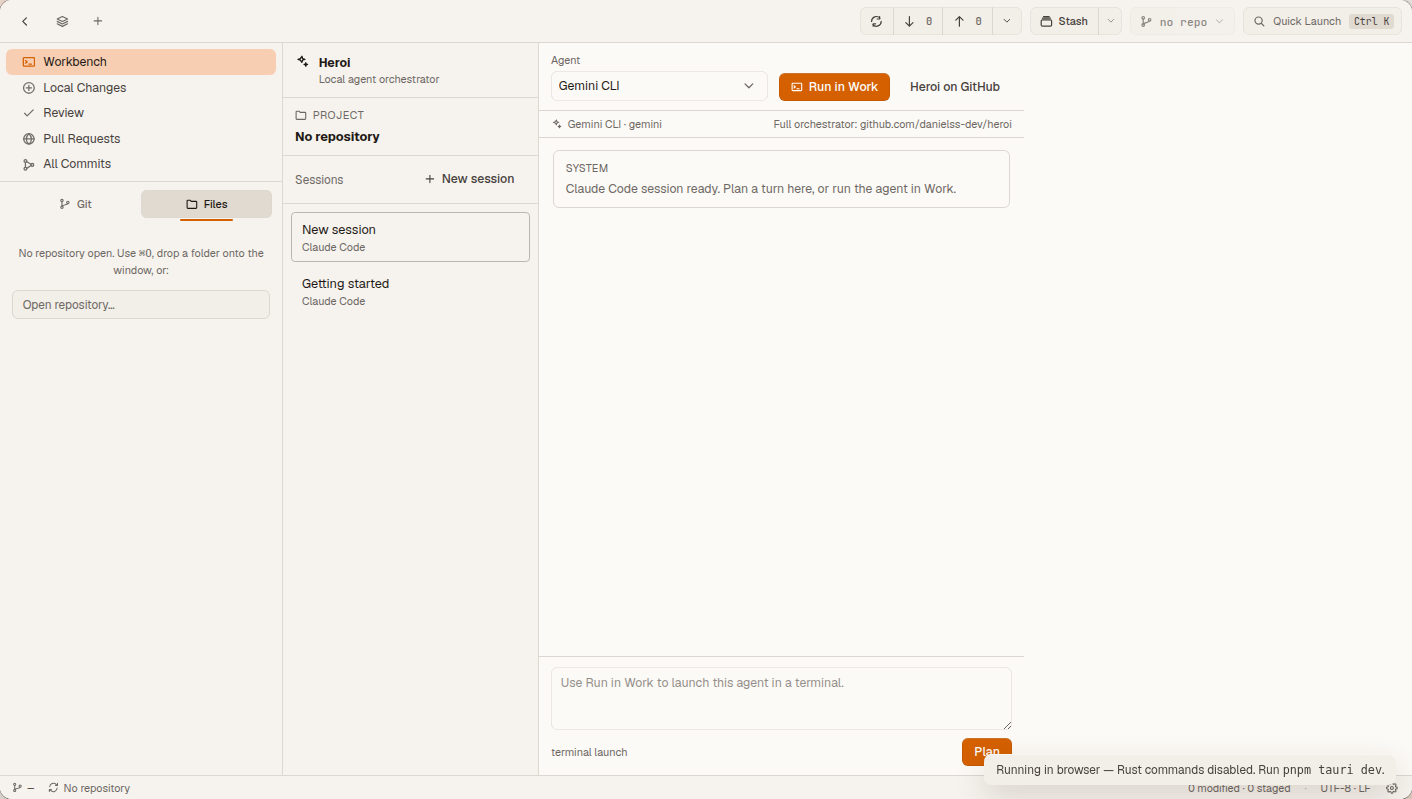
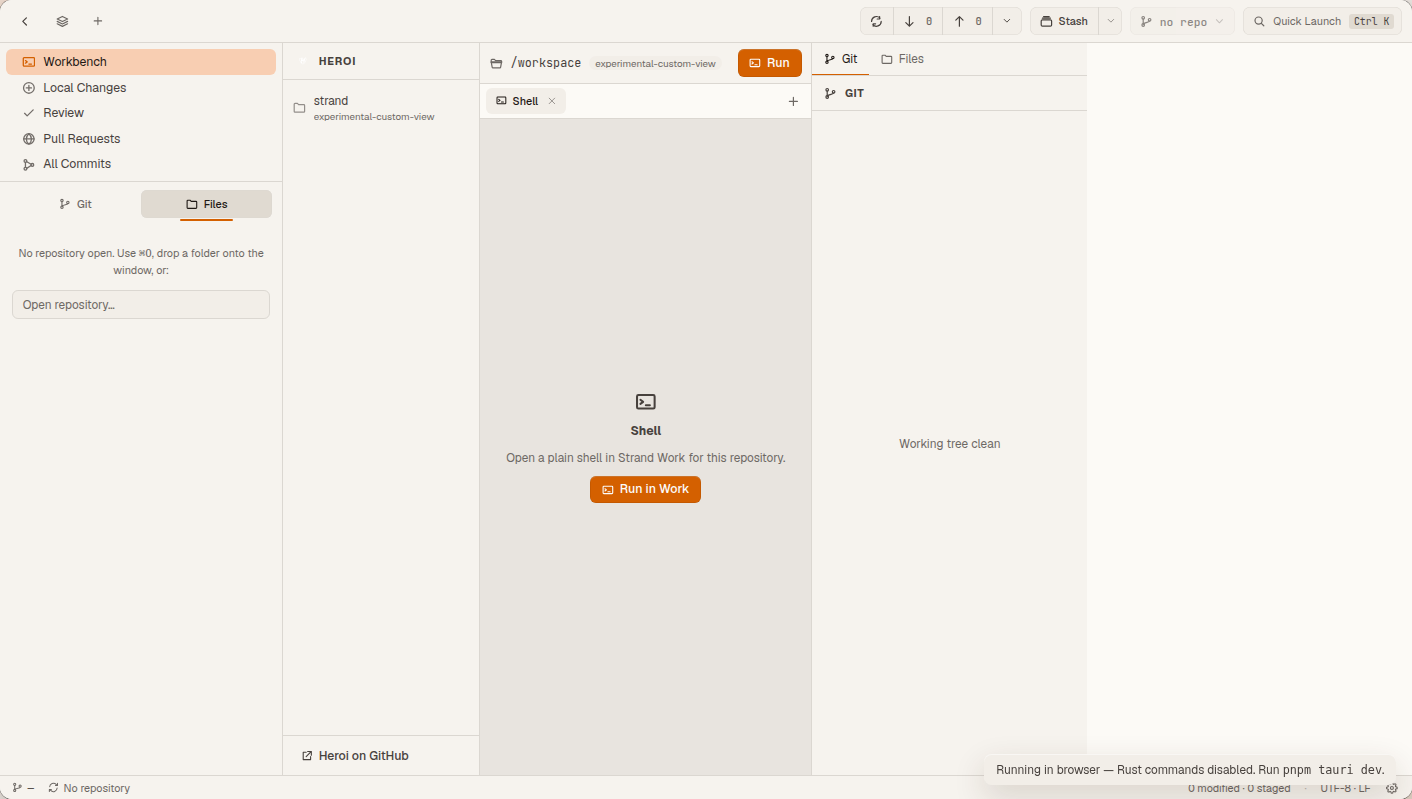
fix(plugins): finish Heroi path fallback and refresh PR screenshots
Use the active Strand tab when meta is empty so the mirrored Heroi
three-pane UI populates in browser QA, and refresh PR 102 assets.

diff --git a/ui/src/plugins/builtins/heroi/HeroiView.tsx b/ui/src/plugins/builtins/heroi/HeroiView.tsx
@@ -84,13 +84,29 @@ export function HeroiView({
   const activeAgentTab = agentTabs.find((tab) => tab.id === activeTabId) ?? agentTabs[0];
   const command = activeAgentTab ? launchCommand(activeAgentTab.agent) : '';
 
-  const project = useMemo(() => ({
-    path: meta?.path ?? '',
-    name: meta?.name ?? null,
-    branch: meta?.branch ?? null,
-    dirty: unstagedDiffs.length + stagedDiffs.length > 0,
-    linked: meta?.is_linked_worktree ?? false,
-  }), [meta?.branch, meta?.is_linked_worktree, meta?.name, meta?.path, stagedDiffs.length, unstagedDiffs.length]);
+  const activeTab = tabs.find((tab) => tab.path === (activeTabPath ?? meta?.path)) ?? tabs[0] ?? null;
+  const project = useMemo(() => {
+    const path = meta?.path ?? activeTab?.path ?? activeTabPath ?? '';
+    const name = meta?.name ?? activeTab?.meta?.name ?? (path ? pathLeaf(path) : null);
+    const branch = meta?.branch ?? activeTab?.meta?.branch ?? null;
+    const linked = meta?.is_linked_worktree ?? activeTab?.meta?.is_linked_worktree ?? false;
+    return {
+      path,
+      name,
+      branch,
+      dirty: unstagedDiffs.length + stagedDiffs.length > 0,
+      linked,
+    };
+  }, [
+    activeTab,
+    activeTabPath,
+    meta?.branch,
+    meta?.is_linked_worktree,
+    meta?.name,
+    meta?.path,
+    stagedDiffs.length,
+    unstagedDiffs.length,
+  ]);
 
   useEffect(() => {
     let current = true;
@@ -162,18 +178,18 @@ export function HeroiView({
   }, []);
 
   const runActiveAgent = useCallback(() => {
-    if (!meta?.path || !activeAgentTab) {
+    if (!project.path || !activeAgentTab) {
       setError(t('plugins.heroi.noRepository'));
       return;
     }
     void broker.readRepository(
       project.path,
       project.branch,
-      meta.head_oid,
+      meta?.head_oid ?? activeTab?.meta?.head_oid ?? null,
       project.dirty,
     ).catch(() => undefined);
 
-    addTerminal(meta.path, null, activeAgentTab.label);
+    addTerminal(project.path, null, activeAgentTab.label);
     setAgentTabs((current) => current.map((tab) => (
       tab.id === activeAgentTab.id ? { ...tab, running: true } : tab
     )));
@@ -183,7 +199,7 @@ export function HeroiView({
       : t('plugins.heroi.launchedShell', { agent: activeAgentTab.label });
     setStatusNote(note);
     setError(null);
-  }, [activeAgentTab, addTerminal, broker, command, meta, project, setView]);
+  }, [activeAgentTab, activeTab?.meta?.head_oid, addTerminal, broker, command, meta?.head_oid, project, setView]);
 
   const openChangedFile = useCallback((path: string) => {
     selectFile(path);
@@ -271,7 +287,7 @@ export function HeroiView({
               <button
                 type="button"
                 className="btn primary"
-                disabled={!meta?.path || !request.lifecycle.visible}
+                disabled={!project.path || !request.lifecycle.visible}
                 onClick={runActiveAgent}
               >
                 <Icon name="terminal" size={12} />
@@ -362,7 +378,7 @@ export function HeroiView({
                 <button
                   type="button"
                   className="btn primary"
-                  disabled={!meta?.path || !request.lifecycle.visible}
+                  disabled={!project.path || !request.lifecycle.visible}
                   onClick={runActiveAgent}
                 >
                   <Icon name="terminal" size={12} />
